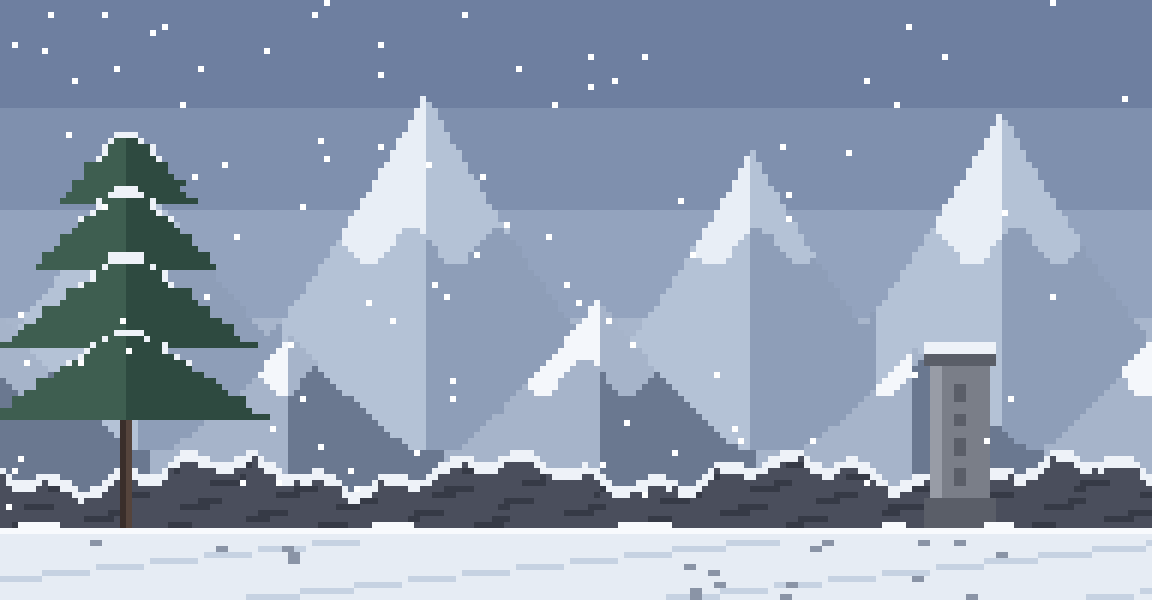
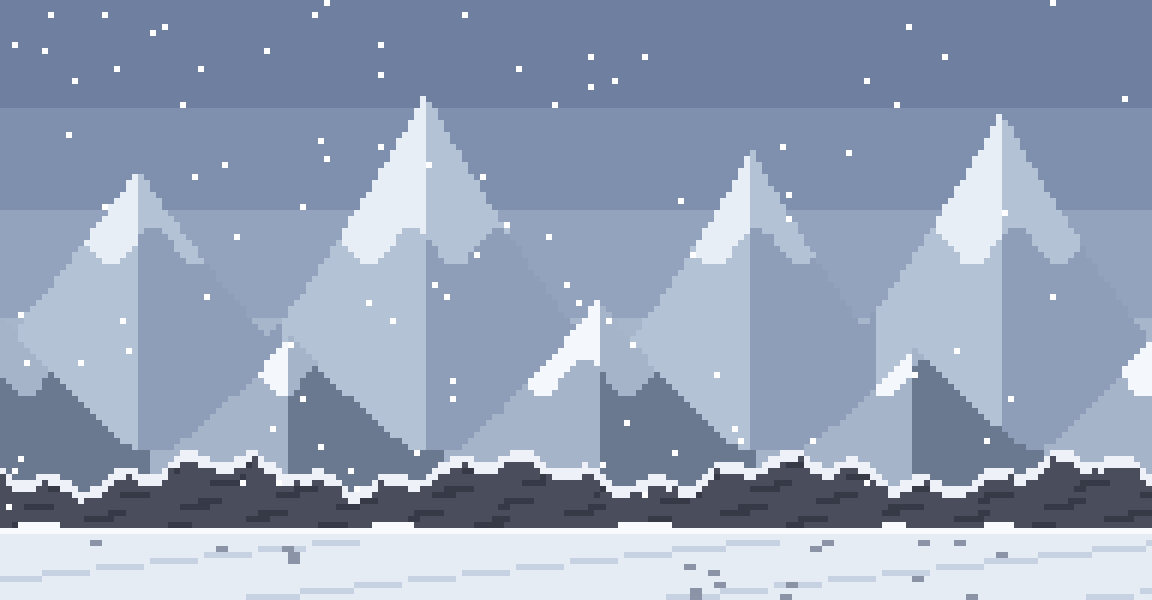
Snow stage: remove fir tree and stele, mountains only

Changed region(s): [[0.0, 0.21, 0.25, 0.9], [0.7812, 0.57, 0.875, 0.87]]

diff --git a/tools/gen_stages.py b/tools/gen_stages.py
@@ -398,7 +398,7 @@ def inn(W, H):
 
 
 def snow(W, H):
-    """Snowy mountain top: jagged white peaks, snow-laden pine, stone stele, falling snow."""
+    """Snowy mountain top: jagged white peaks over a snowy cliff, falling snow."""
     import random
     rnd = random.Random(11)
     s = Stage(W, H, {
@@ -406,8 +406,6 @@ def snow(W, H):
         "p": "E8EEF6", "P": "B4C2D6", "q": "8E9EB8",          # far peaks: snow / shade / rock
         "m": "F4F7FB", "M": "A6B4CA", "n": "6A7890",          # near peaks
         "r": "4A4E5C", "R": "363A46", "w": "EEF2F8",          # cliff rock / dark / snow cap
-        "t": "3A2E2A", "T": "55443C", "g": "2E4A40", "G": "3E5E50",   # pine trunk / foliage
-        "k": "7A7E88", "K": "989CA6", "j": "5A5E68",          # stone stele
         "*": "FFFFFF",                                         # snowflakes
         "s": "E6ECF4", "S": "C6D2E2", "e": "F8FAFD", "d": "8A94A6",   # snow floor
     })
@@ -440,32 +438,6 @@ def snow(W, H):
             s.g[y][x] = "R" if math.sin(x * 0.37 + y * 1.3) * math.sin(x * 0.11 - y * 0.7) > 0.55 else "r"
         s.put(x, s.Y(top), "w")
         s.put(x, s.Y(top) + 1, "w" if (x * 5) % 7 else "r")
-    # snow-laden pine (left)
-    tx = 13
-    s.rect(tx - 0.8, 16, 1.8, DGROUND - 16, "t")
-    s.rect(tx + 0.4, 16, 0.6, DGROUND - 16, "T")
-    for top, h, w in ((14, 8, 6), (20, 9, 9), (27, 10, 12), (35, 10, 14)):   # conical tiers
-        for y in range(s.Y(top), s.Y(top + h)):
-            t = (y / s.sy - top) / h
-            half = 1 + w * t
-            jag = 1 if (y % 3 == 0) else 0
-            for x in range(s.X(tx - half) - jag, s.X(tx + half) + jag + 1):
-                if 0 <= x < W:
-                    s.g[y][x] = "G" if x < s.X(tx) else "g"
-            # snow resting on the upper edge of each tier
-            if (y / s.sy - top) < h * 0.35:
-                for x in (s.X(tx - half) - jag, s.X(tx + half) + jag):
-                    s.put(x, y, "w")
-        s.rect(tx - 1.2, top, 2.4, 1, "w")
-    # stone stele (right)
-    sx0 = 100
-    s.rect(sx0 - 4, DGROUND - 3, 8, 3, "j")
-    s.rect(sx0 - 3, DGROUND - 17, 6, 14, "k")
-    s.rect(sx0 - 3, DGROUND - 17, 1, 14, "K")
-    s.rect(sx0 - 3.6, DGROUND - 18.5, 7.2, 1.6, "j")
-    s.rect(sx0 - 3.6, DGROUND - 19.3, 7.2, 0.8, "w")                   # snow on top
-    for k in range(4):
-        s.rect(sx0 - 0.6, DGROUND - 15 + k * 3, 1.2, 1.6, "j")         # carved marks
     # snow floor
     for y in range(s.ground, s.H):
         s.g[y] = ["s"] * W
